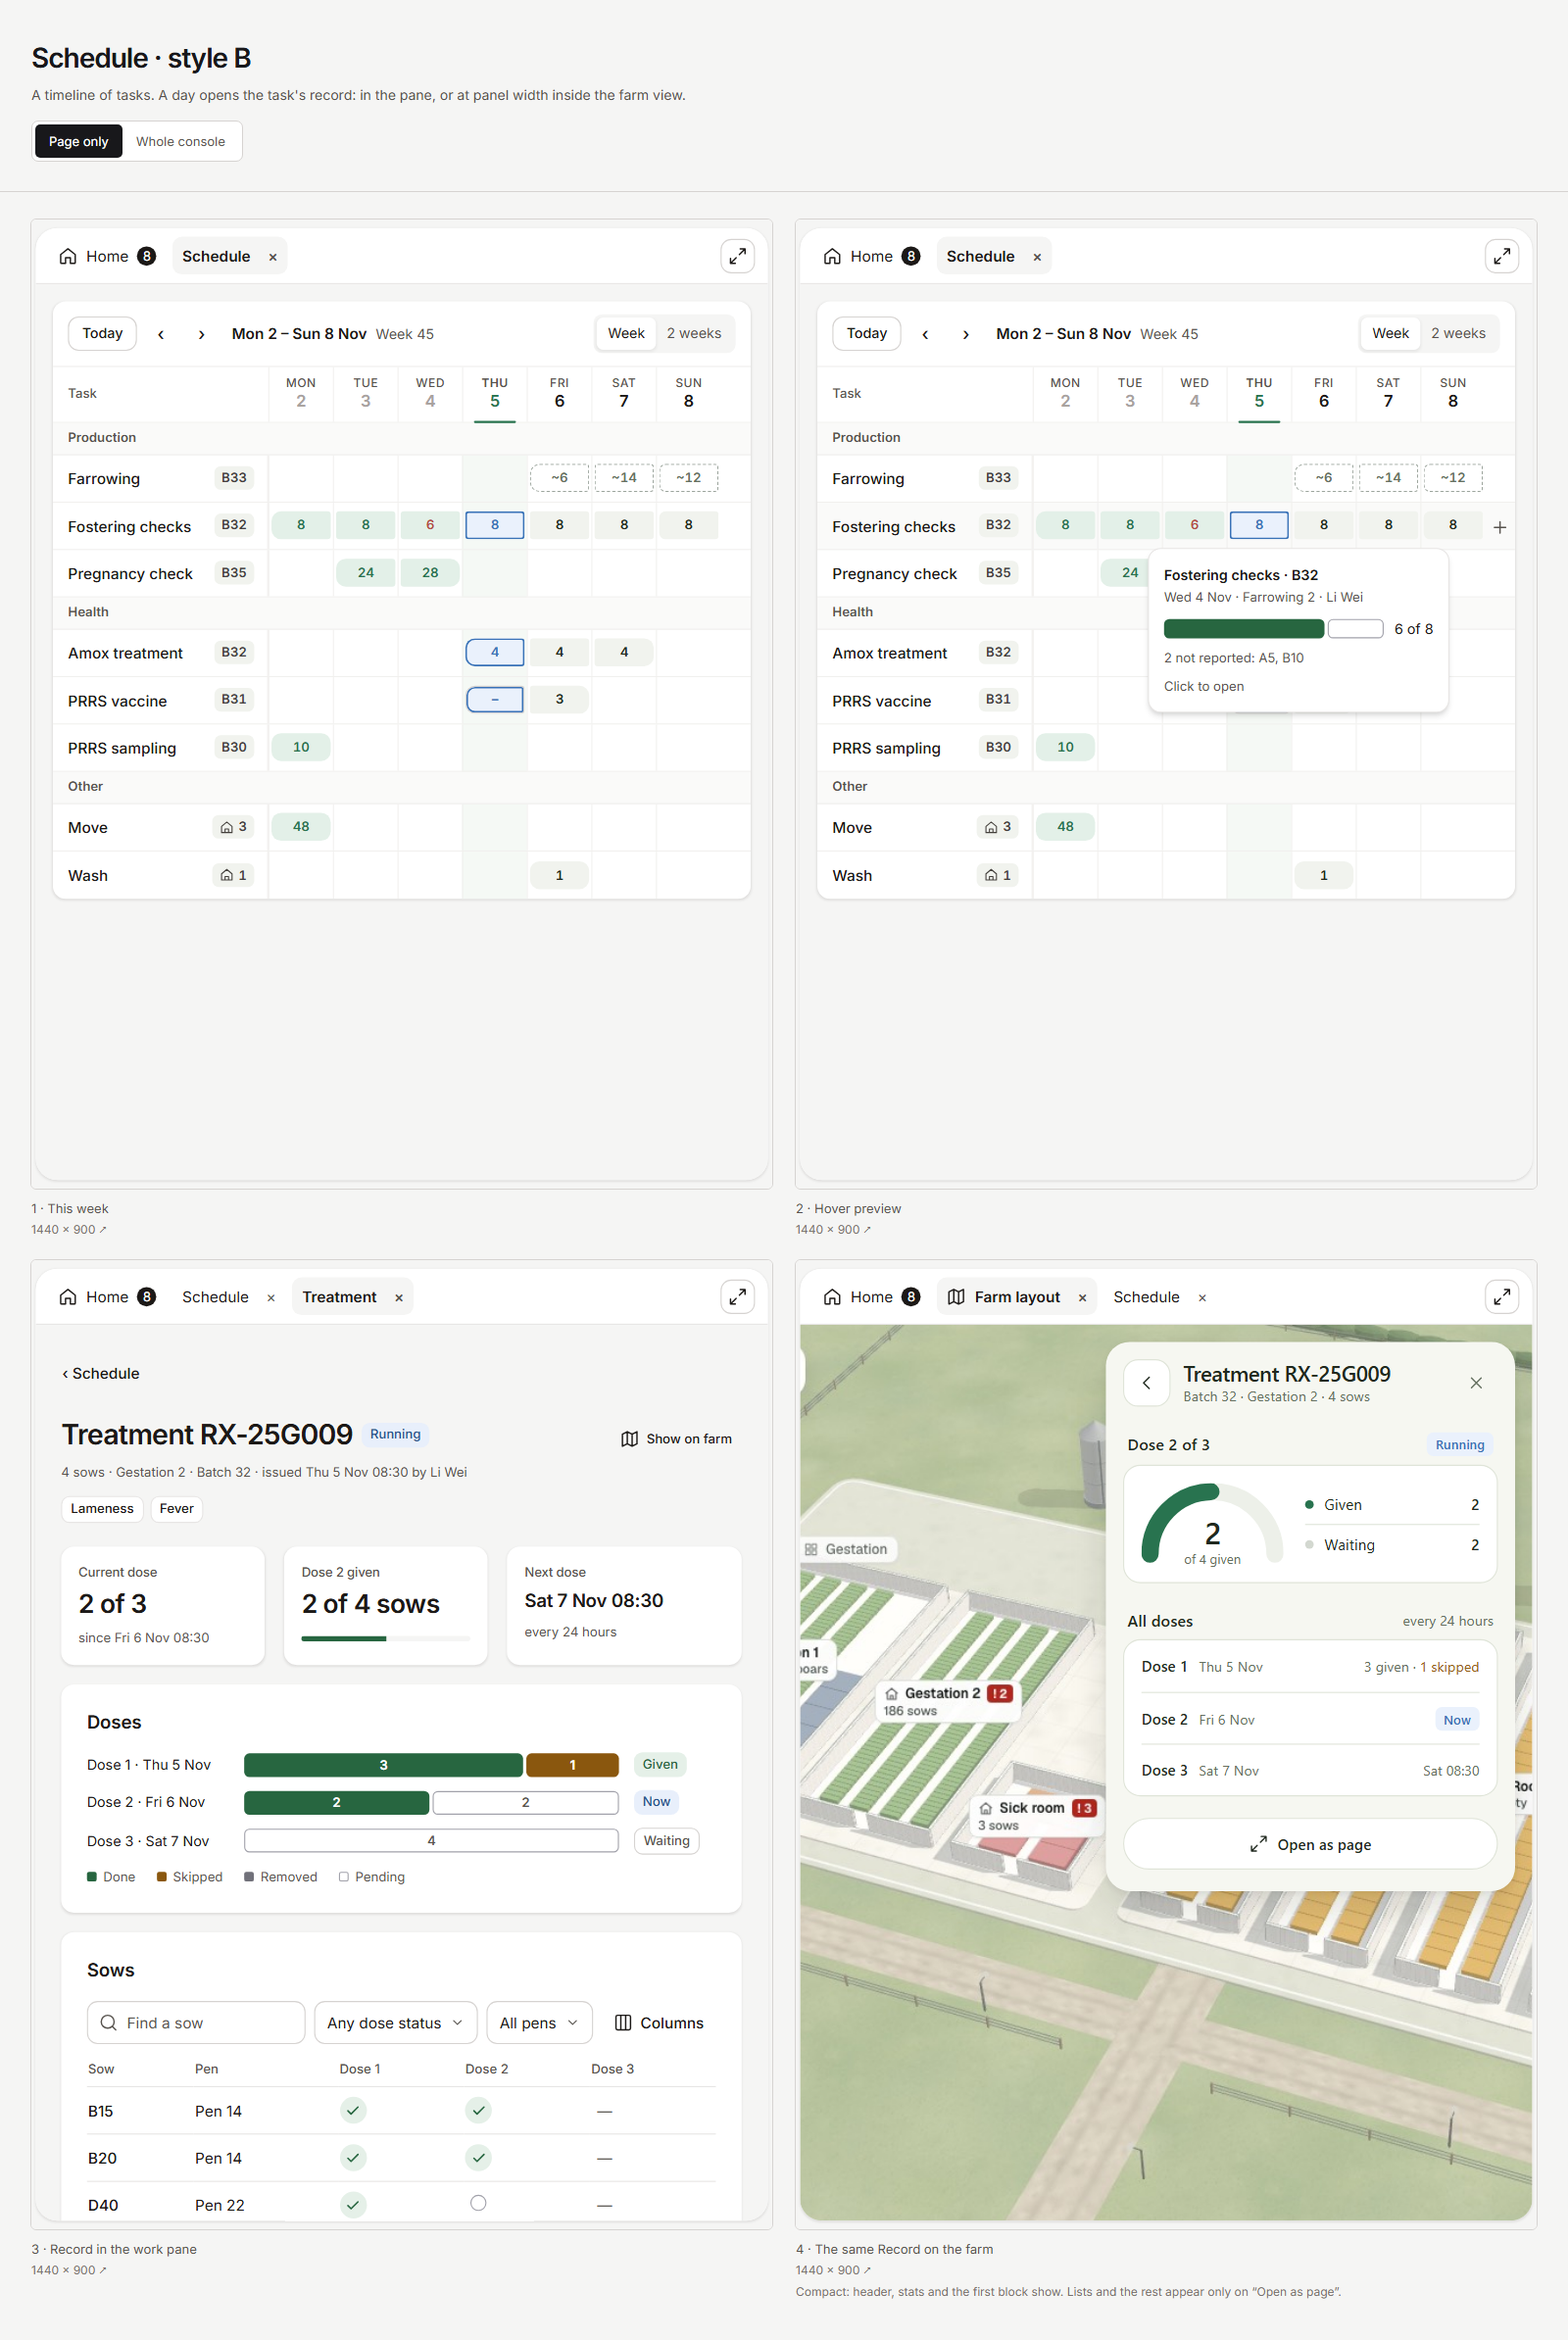
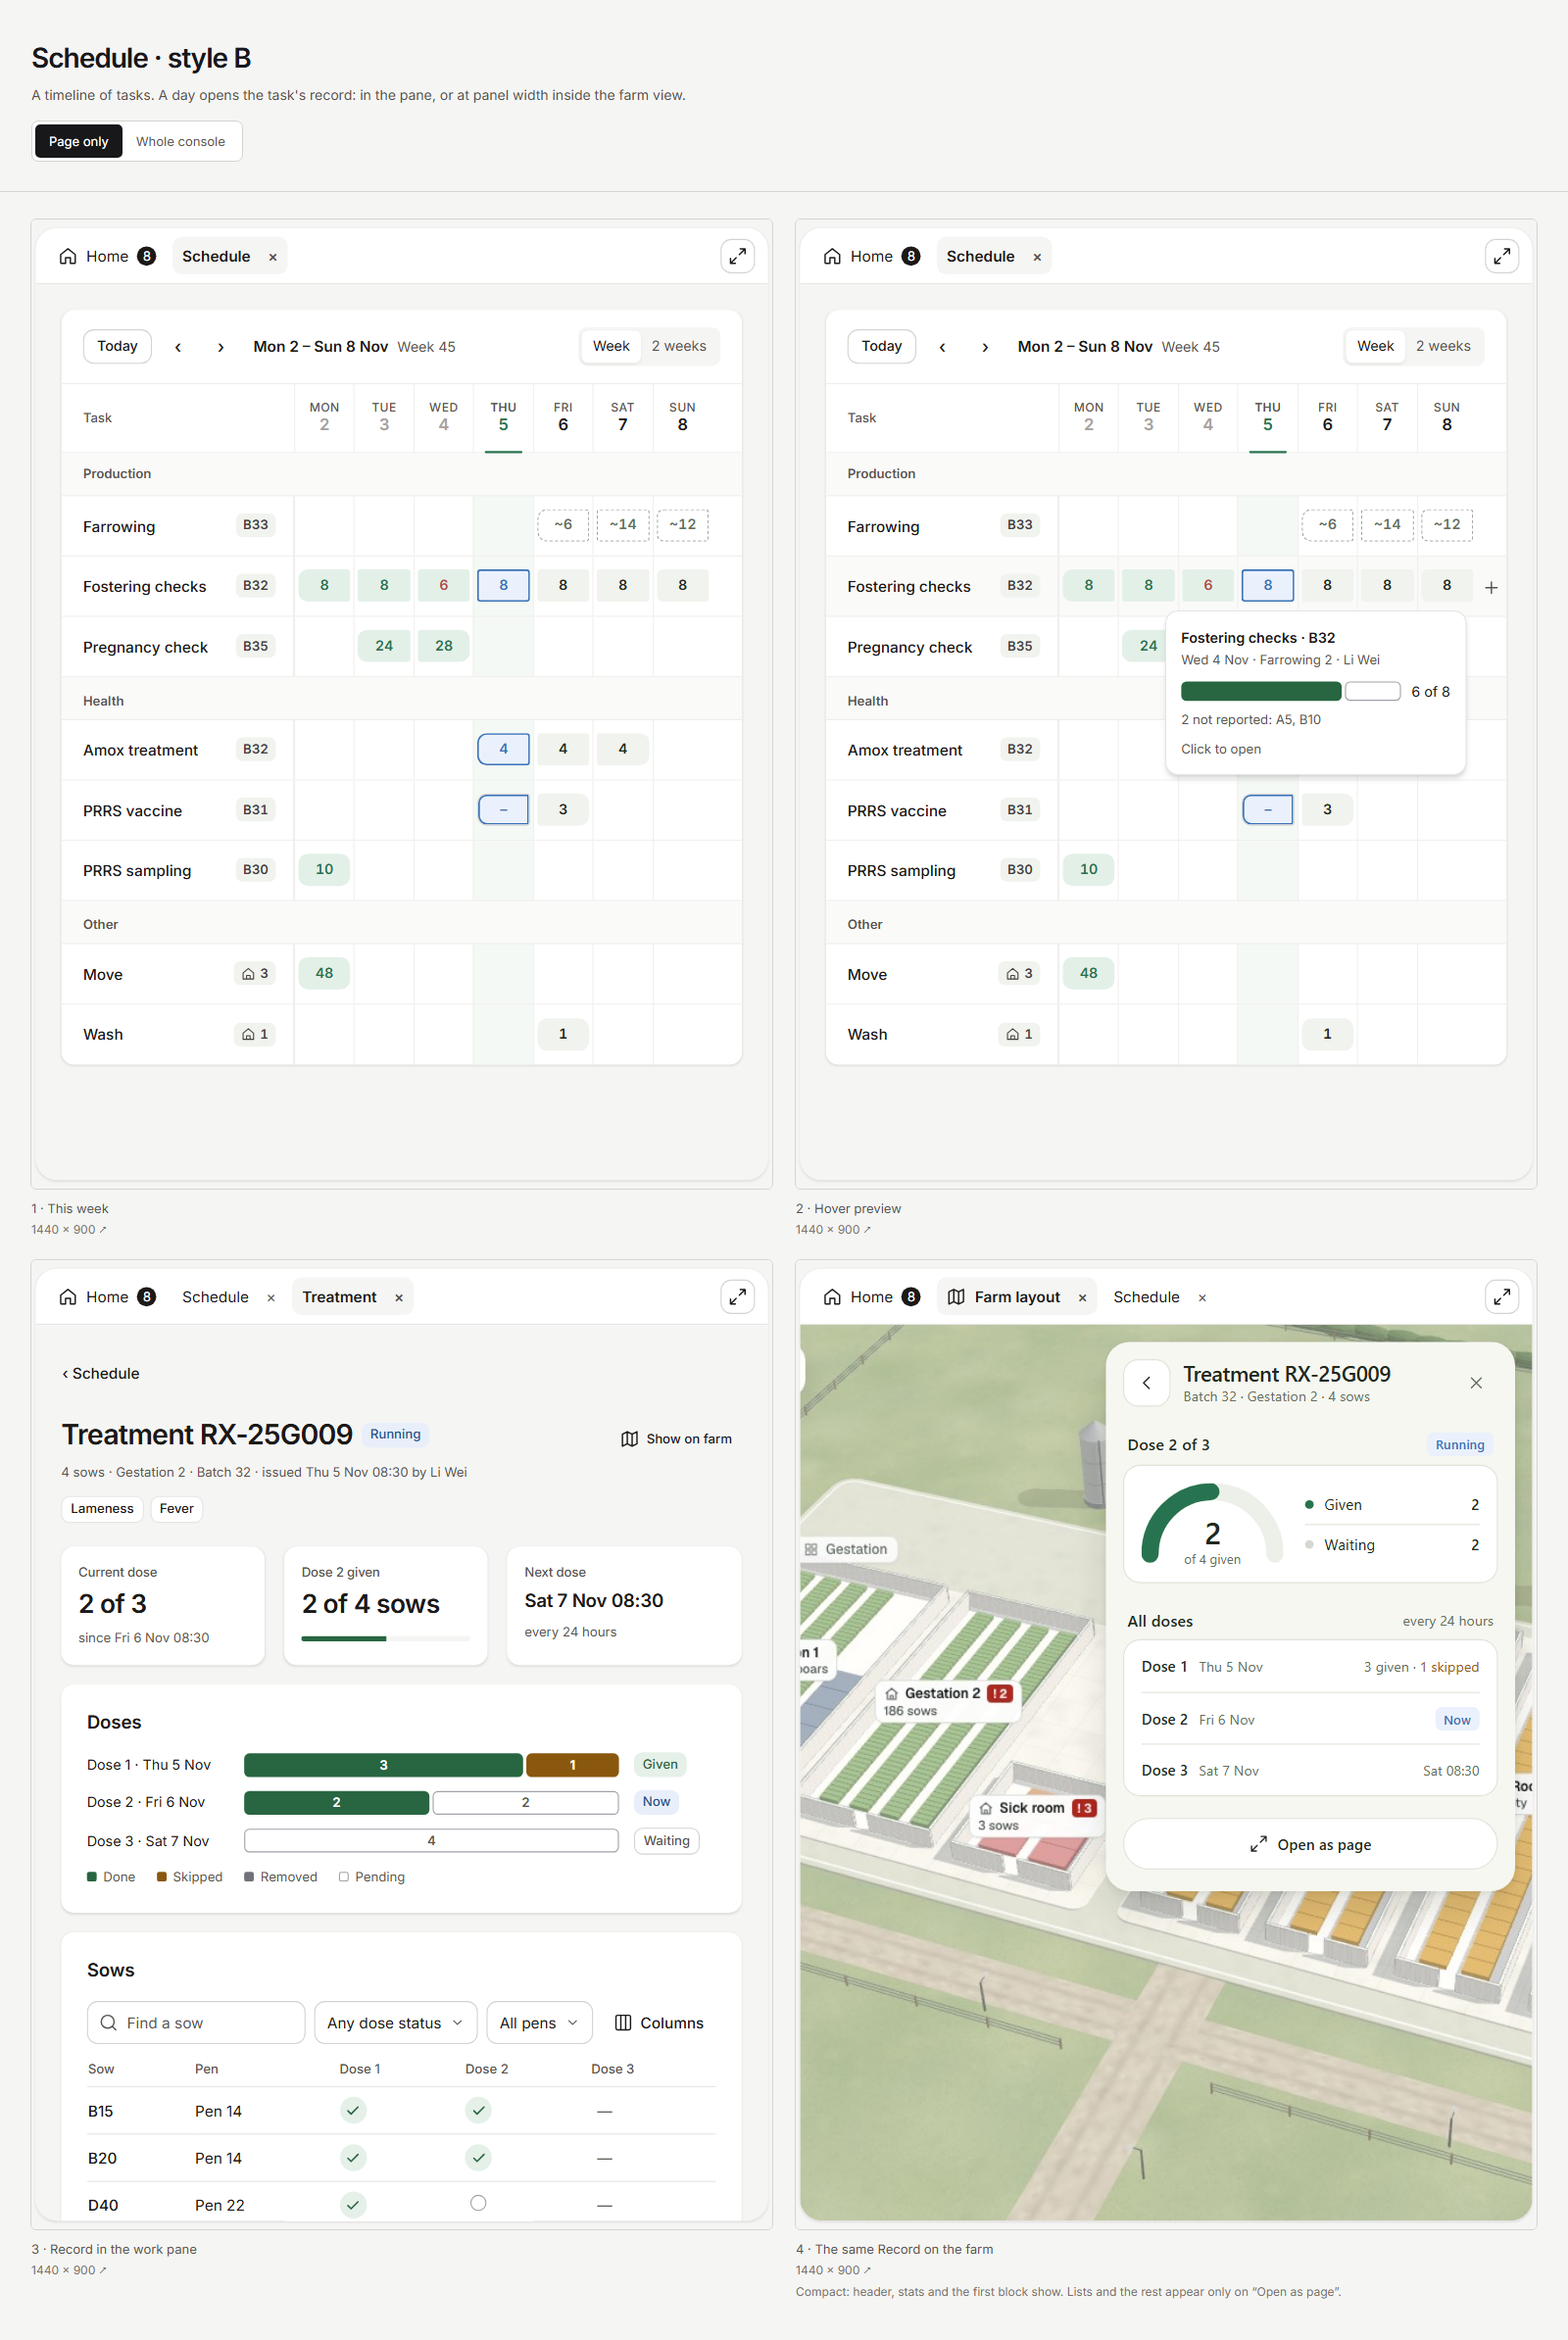
Schedule: more air (56 px rows, taller header and section bands, wider label column)

diff --git a/prototypes/aifirst-canvas/style-board/schedule-b.html b/prototypes/aifirst-canvas/style-board/schedule-b.html
@@ -185,6 +185,19 @@
 .task-batch.rooms svg{width:13px;height:13px;fill:none;stroke:currentColor;stroke-width:1.8;stroke-linecap:round;stroke-linejoin:round}
 .task-batch.rooms:hover:after,.task-batch.rooms:focus:after{content:attr(data-rooms);white-space:pre;position:absolute;left:0;bottom:calc(100% + 6px);z-index:5;background:#fff;color:var(--foreground);font-size:12px;font-weight:500;line-height:1.6;padding:8px 10px;border-radius:8px;box-shadow:0 4px 12px #0002,0 0 0 1px #0000000d}
 .calendar-page{padding:16px 16px 24px}.cal-week{font-weight:400;color:var(--muted-foreground);margin-left:8px;font-size:13px}
+
+/* More air (owner 5 Nov: "a bit cluttered") */
+.calendar-page{padding:24px}
+.cal-toolbar{padding:16px 20px;gap:8px}
+.days{height:64px}
+.today-band{top:64px}
+.days-corner{padding-left:20px!important}
+.section-band{height:40px;padding-left:20px!important;padding-top:6px!important}
+.task-row{height:56px}
+.row-label{padding:0 16px 0 20px}
+.task-row>.cell-slot{padding:0 3px}
+.week-cell{height:30px;font-size:13px}
+.calendar-page{--label:216px}
 </style></head><body><header class="board-header"><h1>Schedule · style B</h1><p>A timeline of tasks. A day opens the task's record: in the pane, or at panel width inside the farm view.</p><div class="view-toggle" role="group" aria-label="Board view"><button data-view="page" aria-pressed="true">Page only</button><button data-view="console" aria-pressed="false">Whole console</button></div></header><main class="board" id="board"></main><div class="overlay" id="overlay" role="dialog" aria-modal="true" aria-label="Full-size Schedule screen"><div class="overlay-toolbar"><span id="overlay-title"></span><div><button id="previous" aria-label="Previous screen">←</button><button id="next" aria-label="Next screen">→</button><button id="close" aria-label="Close full-size screen">✕</button></div></div><div class="overlay-stage" id="overlay-stage"></div></div><script>
 if(navigator.onLine){const f=document.getElementById('google-fonts');f.href=f.dataset.href;}
 const variants=[{id:'B',xs:12,sm:13,ctl:14,base:14,h1:26,h2:17,stat:24,gap:18,gapLg:26,row:44,track:'-.7px',name:'Sentri green, sectioned',font:'Inter',text:14,control:40,pad:24,radius:'.75rem',grey:'#f5f5f4',primary:'#276640',foreground:'#1c1917',muted:'#57534e',border:'#e7e5e4',input:'#d6d3d1',shadow:'0 1px 3px #1c19170f,0 1px 2px #1c19170a',edge:'0px solid transparent',layout:'sectioned',spec:['Inter · 14 px','40 px controls · 24 px padding','0.75rem','No border · shadow-sm','Warm stone · #f5f5f4','Sentri green · #276640','240 px section label + fields']}];
